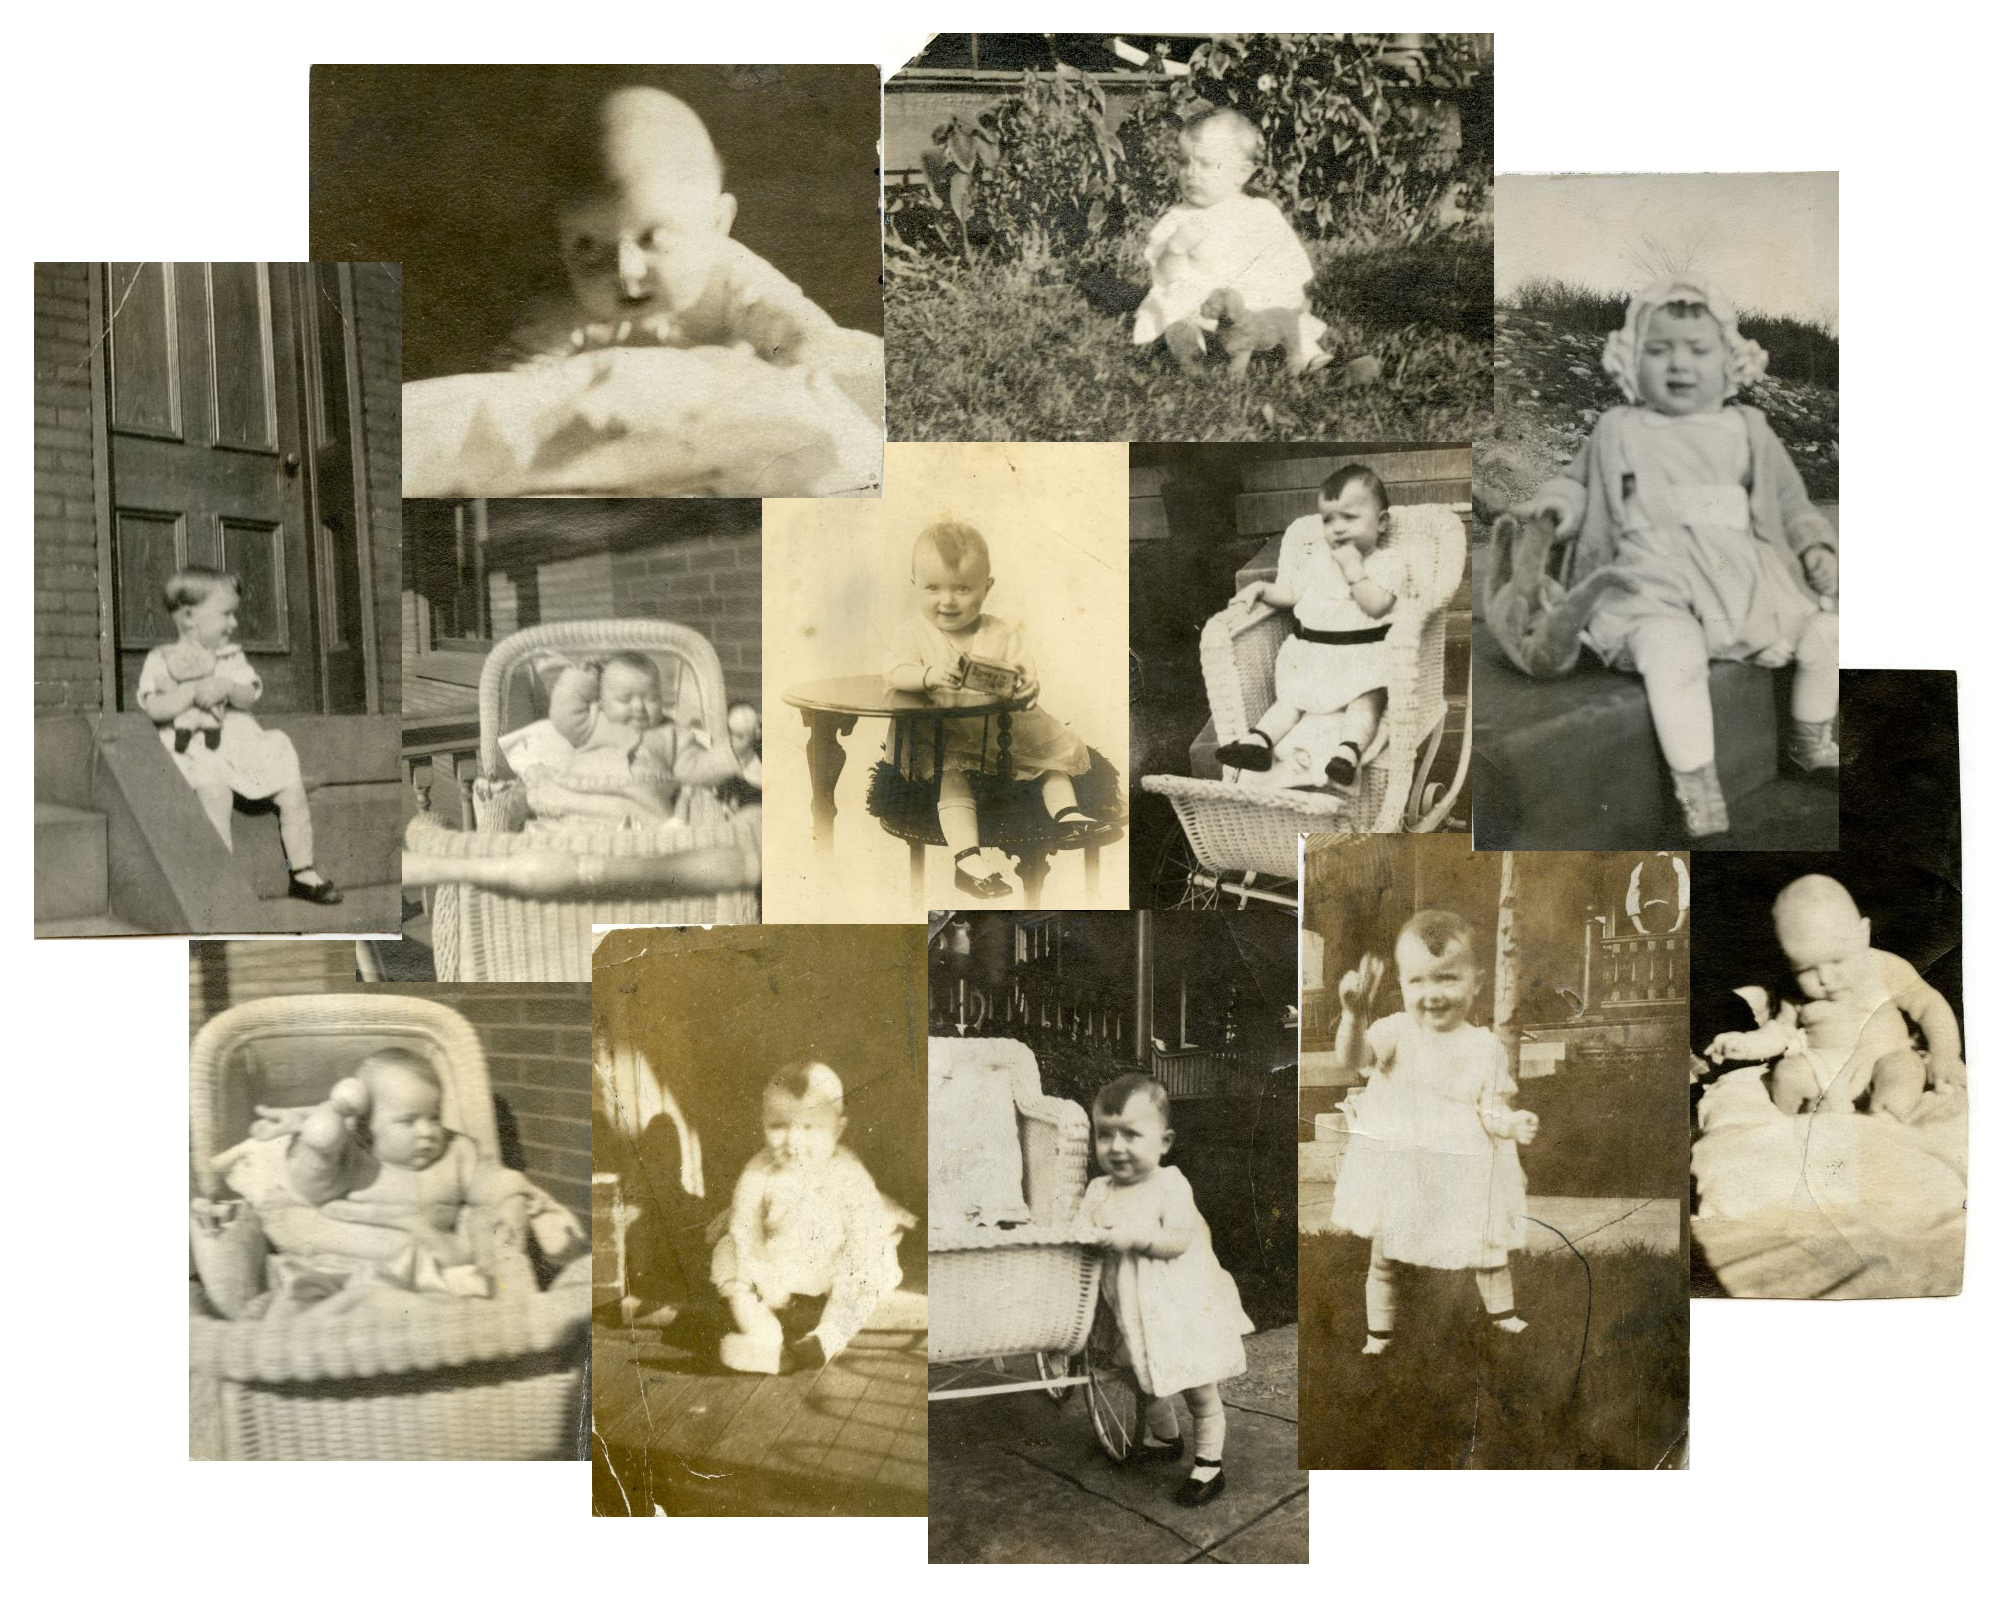
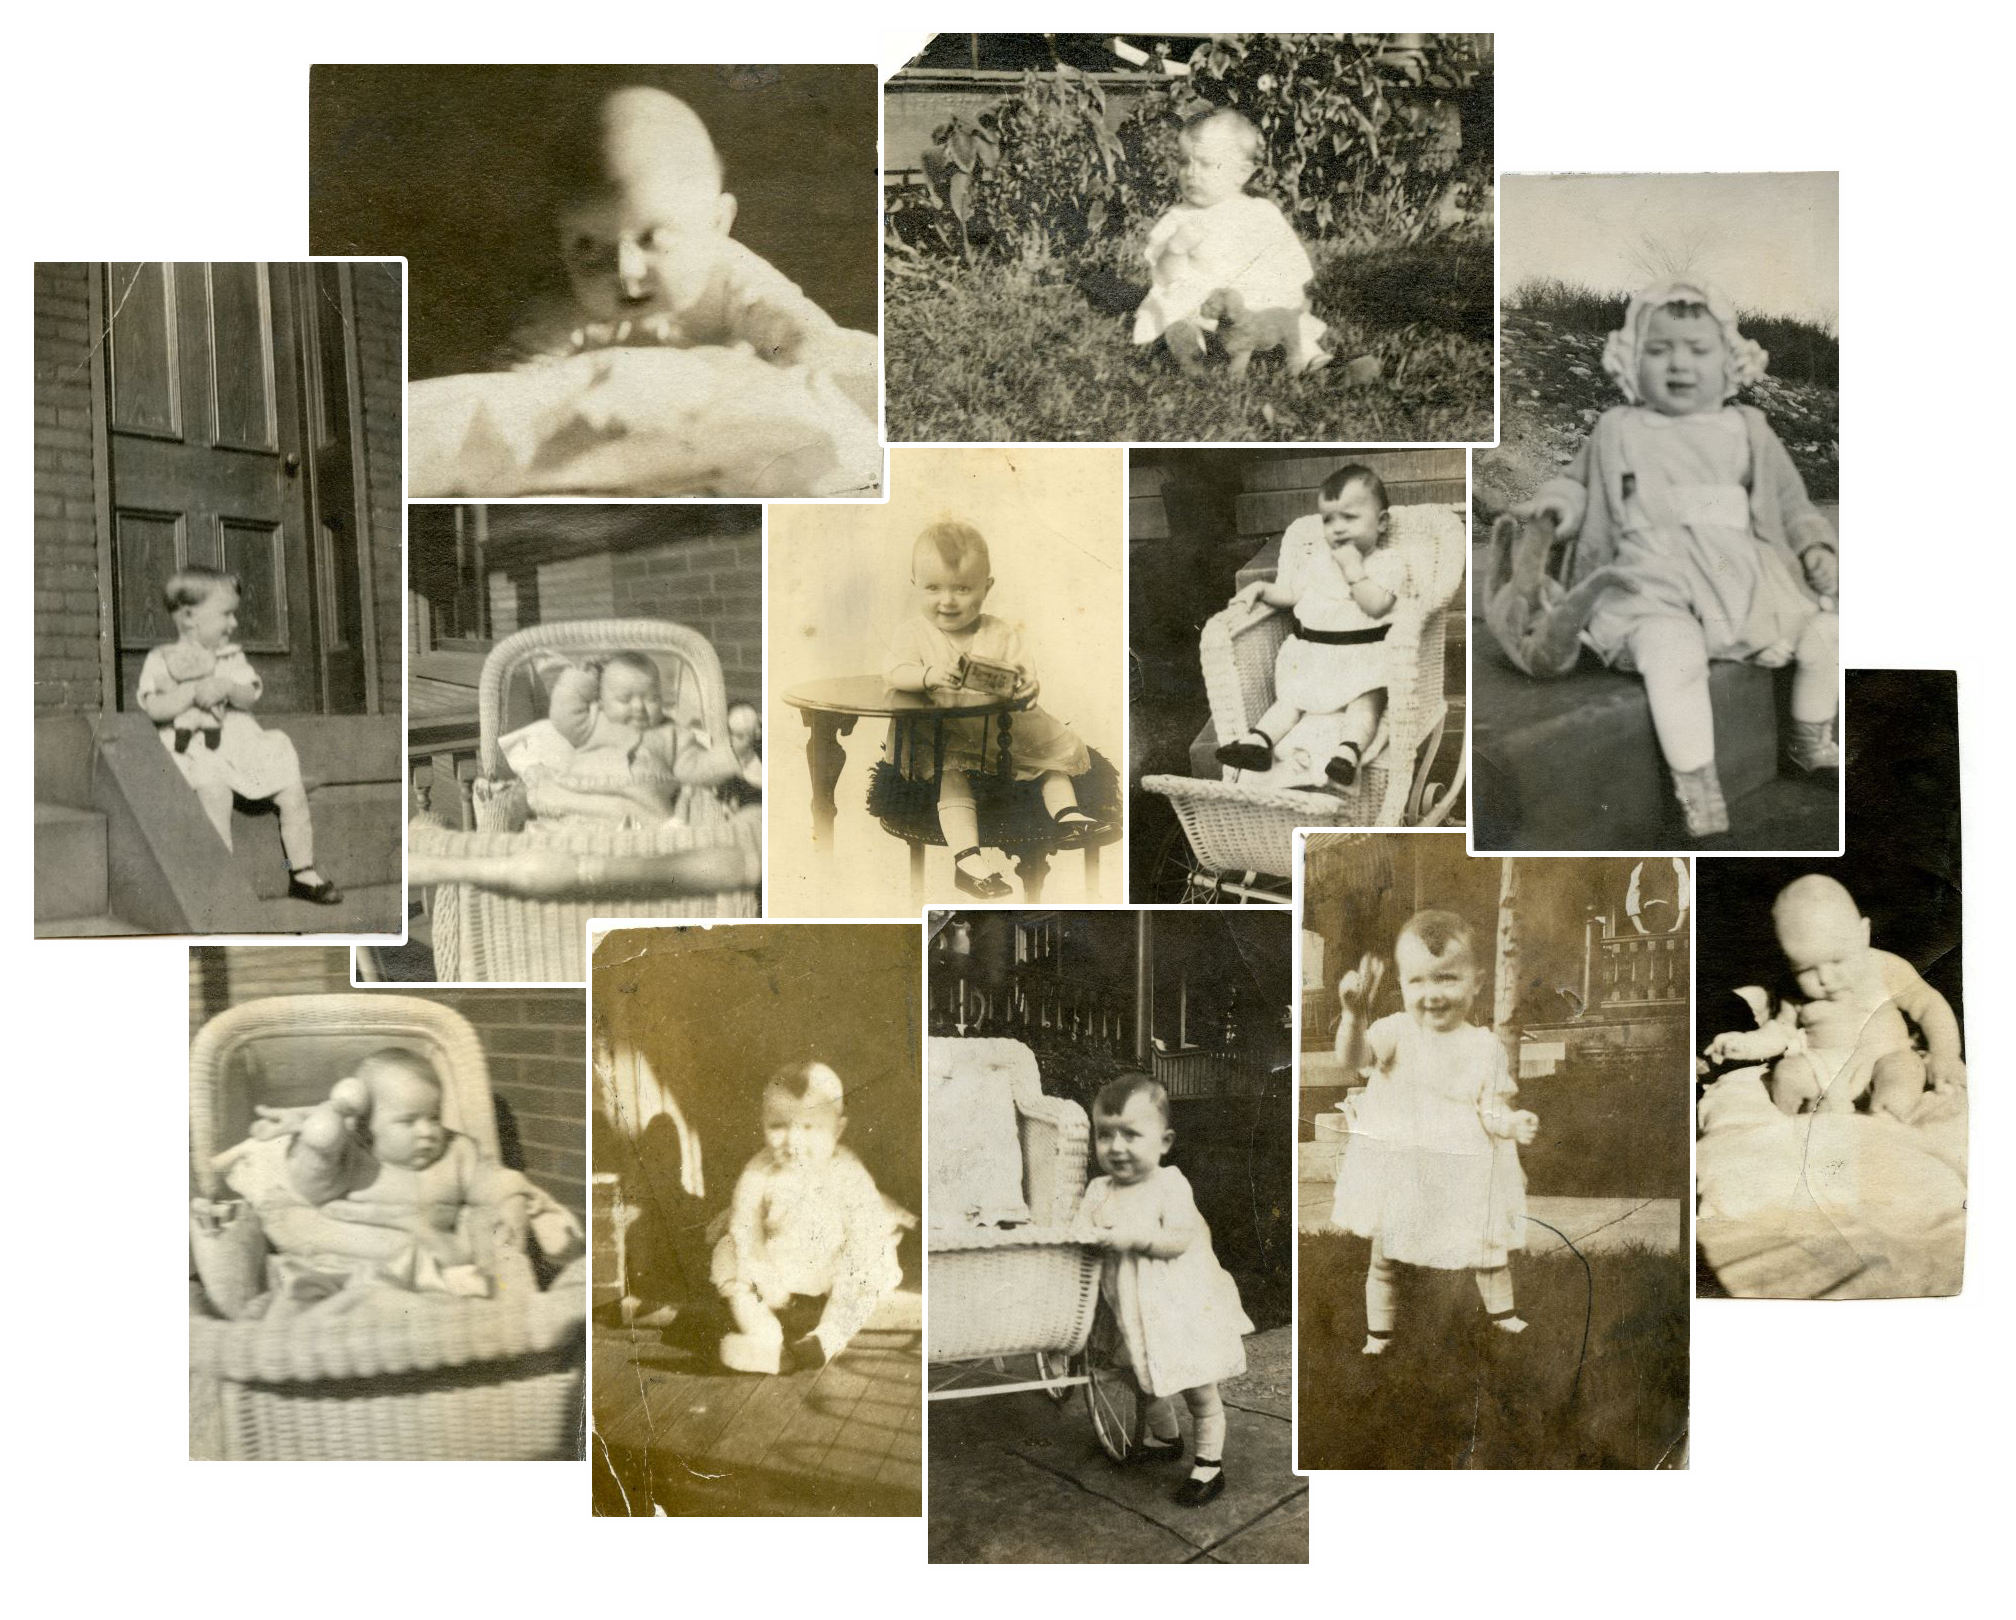
individual borders in collages

diff --git a/her_story_book_1.html b/her_story_book_1.html
@@ -67,8 +67,19 @@
             </div>
           </div>
           <p align="center">
-            <img src="images/baby_collage.png" alt="BabyCollage" style="width:80%"-->
+            <a data-toggle="modal" href="#baby_collage" class="thumbnail">
+              <img src="images/baby_collage.png" alt="BabyCollage" style="width:80%">
+            </a>
           </p>
+          <div id="baby_collage" class="modal fade" tabindex="-1" role="dialog" aria-labelledby="baby_collageLabel" aria-hidden="true">
+            <div class="modal-dialog" style="margin-top:20%">
+              <div class="modal-content">
+                <div class="modal-body">
+                  <img src="images/baby_collage.png" class="img-responsive" style="max-width:100%;">
+                </div>
+              </div>
+            </div>
+          </div>
           <p>
             Since my parents, as all parents, had such a profound influence on my early life, or more accurately,
             my entire life, I feel you should know something about them.
@@ -196,8 +207,19 @@
             I continued to enjoy the beach.
           </p>
           <p align="center">
-            <img src="images/island_beach_collage.png" alt="BeachCollage" style="width:80%">
+            <a data-toggle="modal" href="#island_beach_collage" class="thumbnail">
+              <img src="images/island_beach_collage.png" alt="BabyCollage" style="width:80%">
+            </a>
           </p>
+          <div id="island_beach_collage" class="modal fade" tabindex="-1" role="dialog" aria-labelledby="island_beach_collageLabel" aria-hidden="true">
+            <div class="modal-dialog" style="margin-top:20%">
+              <div class="modal-content">
+                <div class="modal-body">
+                  <img src="images/island_beach_collage.png" class="img-responsive" style="max-width:100%;">
+                </div>
+              </div>
+            </div>
+          </div>
           <p>
             In 1925 I entered the first grade at St. Mary's Catholic School in Harrisburg.
           </p>
@@ -719,8 +741,19 @@
             </div>
           </div>
           <p align="center">
-            <img src="images/wedding_collage.png" alt="WeddingCollage" style="width:80%">
+            <a data-toggle="modal" href="#wedding_collage" class="thumbnail">
+              <img src="images/wedding_collage.png" alt="BabyCollage" style="width:80%">
+            </a>
           </p>
+          <div id="wedding_collage" class="modal fade" tabindex="-1" role="dialog" aria-labelledby="wedding_collageLabel" aria-hidden="true">
+            <div class="modal-dialog" style="margin-top:20%">
+              <div class="modal-content">
+                <div class="modal-body">
+                  <img src="images/wedding_collage.png" class="img-responsive" style="max-width:100%;">
+                </div>
+              </div>
+            </div>
+          </div>
           <p>
             Attending the wedding dinner were, from left to right, Preston and Gladys, John and I, my best friend
             Marge dePourtales, Marie, and Eloise and Roy Bokland.  Roy and I worked together and were great friends.
